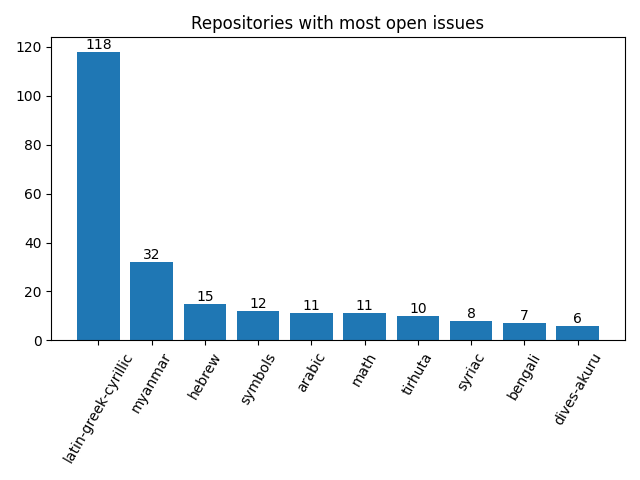
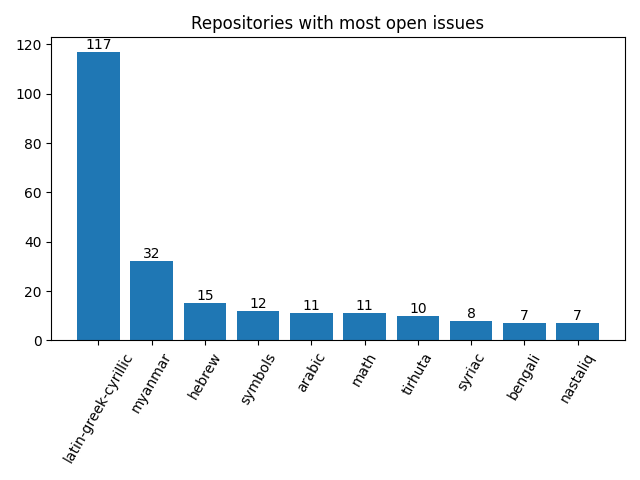
Apply automatic changes

diff --git a/docs/analytics.html b/docs/analytics.html
@@ -119,8 +119,8 @@ td .material-icons { display:inline-flex; vertical-align: top; font-size:1.1rem;
 						</tr>
 						<tr>
 							<td>Nov</td>
-							<td>11</td>
-							<td>4</td>
+							<td>14</td>
+							<td>7</td>
 						</tr>
 					</table>
 				</div>
@@ -140,7 +140,7 @@ td .material-icons { display:inline-flex; vertical-align: top; font-size:1.1rem;
 							<td>
 								<a href="http://github.com/notofonts/latin-greek-cyrillic/issues">latin-greek-cyrillic</a>
 							</td>
-							<td>118</td>
+							<td>117</td>
 						</tr>
 						<tr>
 							<td>
@@ -192,9 +192,9 @@ td .material-icons { display:inline-flex; vertical-align: top; font-size:1.1rem;
 						</tr>
 						<tr>
 							<td>
-								<a href="http://github.com/notofonts/dives-akuru/issues">dives-akuru</a>
+								<a href="http://github.com/notofonts/nastaliq/issues">nastaliq</a>
 							</td>
-							<td>6</td>
+							<td>7</td>
 						</tr>
 					</table>
 				</div>
@@ -211,13 +211,13 @@ td .material-icons { display:inline-flex; vertical-align: top; font-size:1.1rem;
 				<tr>
 					<td>1</td>
 					<td>
-						<a href="http://github.com/notofonts/chakma/issues">chakma</a>,  						<a href="http://github.com/notofonts/chorasmian/issues">chorasmian</a>,  						<a href="http://github.com/notofonts/dogra/issues">dogra</a>,  						<a href="http://github.com/notofonts/duployan/issues">duployan</a>,  						<a href="http://github.com/notofonts/elbasan/issues">elbasan</a>,  						<a href="http://github.com/notofonts/glagolitic/issues">glagolitic</a>,  						<a href="http://github.com/notofonts/gunjala-gondi/issues">gunjala-gondi</a>,  						<a href="http://github.com/notofonts/inscriptional-pahlavi/issues">inscriptional-pahlavi</a>,  						<a href="http://github.com/notofonts/kharoshthi/issues">kharoshthi</a>,  						<a href="http://github.com/notofonts/khitan-small-script/issues">khitan-small-script</a>,  						<a href="http://github.com/notofonts/khojki/issues">khojki</a>,  						<a href="http://github.com/notofonts/khudawadi/issues">khudawadi</a>,  						<a href="http://github.com/notofonts/lao/issues">lao</a>,  						<a href="http://github.com/notofonts/limbu/issues">limbu</a>,  						<a href="http://github.com/notofonts/masaram-gondi/issues">masaram-gondi</a>,  						<a href="http://github.com/notofonts/meetei-mayek/issues">meetei-mayek</a>,  						<a href="http://github.com/notofonts/mongolian/issues">mongolian</a>,  						<a href="http://github.com/notofonts/nag-mundari/issues">nag-mundari</a>,  						<a href="http://github.com/notofonts/nko/issues">nko</a>,  						<a href="http://github.com/notofonts/nushu/issues">nushu</a>,  						<a href="http://github.com/notofonts/old-italic/issues">old-italic</a>,  						<a href="http://github.com/notofonts/old-turkic/issues">old-turkic</a>,  						<a href="http://github.com/notofonts/oriya/issues">oriya</a>,  						<a href="http://github.com/notofonts/pau-cin-hau/issues">pau-cin-hau</a>,  						<a href="http://github.com/notofonts/phags-pa/issues">phags-pa</a>,  						<a href="http://github.com/notofonts/psalter-pahlavi/issues">psalter-pahlavi</a>,  						<a href="http://github.com/notofonts/rejang/issues">rejang</a>,  						<a href="http://github.com/notofonts/runic/issues">runic</a>,  						<a href="http://github.com/notofonts/saurashtra/issues">saurashtra</a>,  						<a href="http://github.com/notofonts/sogdian/issues">sogdian</a>,  						<a href="http://github.com/notofonts/sundanese/issues">sundanese</a>,  						<a href="http://github.com/notofonts/tai-tham/issues">tai-tham</a>,  						<a href="http://github.com/notofonts/takri/issues">takri</a>,  						<a href="http://github.com/notofonts/tangsa/issues">tangsa</a>,  						<a href="http://github.com/notofonts/tangut/issues">tangut</a>,  						<a href="http://github.com/notofonts/thaana/issues">thaana</a> 
+						<a href="http://github.com/notofonts/chakma/issues">chakma</a>,  						<a href="http://github.com/notofonts/chorasmian/issues">chorasmian</a>,  						<a href="http://github.com/notofonts/dogra/issues">dogra</a>,  						<a href="http://github.com/notofonts/duployan/issues">duployan</a>,  						<a href="http://github.com/notofonts/elbasan/issues">elbasan</a>,  						<a href="http://github.com/notofonts/glagolitic/issues">glagolitic</a>,  						<a href="http://github.com/notofonts/gunjala-gondi/issues">gunjala-gondi</a>,  						<a href="http://github.com/notofonts/inscriptional-pahlavi/issues">inscriptional-pahlavi</a>,  						<a href="http://github.com/notofonts/kharoshthi/issues">kharoshthi</a>,  						<a href="http://github.com/notofonts/khitan-small-script/issues">khitan-small-script</a>,  						<a href="http://github.com/notofonts/khojki/issues">khojki</a>,  						<a href="http://github.com/notofonts/khudawadi/issues">khudawadi</a>,  						<a href="http://github.com/notofonts/lao/issues">lao</a>,  						<a href="http://github.com/notofonts/limbu/issues">limbu</a>,  						<a href="http://github.com/notofonts/masaram-gondi/issues">masaram-gondi</a>,  						<a href="http://github.com/notofonts/meetei-mayek/issues">meetei-mayek</a>,  						<a href="http://github.com/notofonts/mongolian/issues">mongolian</a>,  						<a href="http://github.com/notofonts/nag-mundari/issues">nag-mundari</a>,  						<a href="http://github.com/notofonts/nko/issues">nko</a>,  						<a href="http://github.com/notofonts/nushu/issues">nushu</a>,  						<a href="http://github.com/notofonts/old-italic/issues">old-italic</a>,  						<a href="http://github.com/notofonts/old-turkic/issues">old-turkic</a>,  						<a href="http://github.com/notofonts/oriya/issues">oriya</a>,  						<a href="http://github.com/notofonts/pau-cin-hau/issues">pau-cin-hau</a>,  						<a href="http://github.com/notofonts/phags-pa/issues">phags-pa</a>,  						<a href="http://github.com/notofonts/psalter-pahlavi/issues">psalter-pahlavi</a>,  						<a href="http://github.com/notofonts/rejang/issues">rejang</a>,  						<a href="http://github.com/notofonts/runic/issues">runic</a>,  						<a href="http://github.com/notofonts/saurashtra/issues">saurashtra</a>,  						<a href="http://github.com/notofonts/sogdian/issues">sogdian</a>,  						<a href="http://github.com/notofonts/sundanese/issues">sundanese</a>,  						<a href="http://github.com/notofonts/tai-tham/issues">tai-tham</a>,  						<a href="http://github.com/notofonts/takri/issues">takri</a>,  						<a href="http://github.com/notofonts/tangsa/issues">tangsa</a>,  						<a href="http://github.com/notofonts/tangut/issues">tangut</a>,  						<a href="http://github.com/notofonts/thaana/issues">thaana</a>,  						<a href="http://github.com/notofonts/toto/issues">toto</a> 
 					</td>
 				</tr>
 				<tr>
 					<td>2</td>
 					<td>
-						<a href="http://github.com/notofonts/adlam/issues">adlam</a>,  						<a href="http://github.com/notofonts/armenian/issues">armenian</a>,  						<a href="http://github.com/notofonts/brahmi/issues">brahmi</a>,  						<a href="http://github.com/notofonts/coptic/issues">coptic</a>,  						<a href="http://github.com/notofonts/cuneiform/issues">cuneiform</a>,  						<a href="http://github.com/notofonts/georgian/issues">georgian</a>,  						<a href="http://github.com/notofonts/khmer/issues">khmer</a>,  						<a href="http://github.com/notofonts/mandaic/issues">mandaic</a>,  						<a href="http://github.com/notofonts/music/issues">music</a>,  						<a href="http://github.com/notofonts/old-hungarian-ui/issues">old-hungarian-ui</a>,  						<a href="http://github.com/notofonts/tagalog/issues">tagalog</a>,  						<a href="http://github.com/notofonts/tamil/issues">tamil</a>,  						<a href="http://github.com/notofonts/telugu/issues">telugu</a>,  						<a href="http://github.com/notofonts/toto/issues">toto</a> 
+						<a href="http://github.com/notofonts/adlam/issues">adlam</a>,  						<a href="http://github.com/notofonts/armenian/issues">armenian</a>,  						<a href="http://github.com/notofonts/brahmi/issues">brahmi</a>,  						<a href="http://github.com/notofonts/coptic/issues">coptic</a>,  						<a href="http://github.com/notofonts/cuneiform/issues">cuneiform</a>,  						<a href="http://github.com/notofonts/georgian/issues">georgian</a>,  						<a href="http://github.com/notofonts/khmer/issues">khmer</a>,  						<a href="http://github.com/notofonts/mandaic/issues">mandaic</a>,  						<a href="http://github.com/notofonts/music/issues">music</a>,  						<a href="http://github.com/notofonts/old-hungarian-ui/issues">old-hungarian-ui</a>,  						<a href="http://github.com/notofonts/tagalog/issues">tagalog</a>,  						<a href="http://github.com/notofonts/tamil/issues">tamil</a>,  						<a href="http://github.com/notofonts/telugu/issues">telugu</a> 
 					</td>
 				</tr>
 				<tr>
@@ -235,19 +235,19 @@ td .material-icons { display:inline-flex; vertical-align: top; font-size:1.1rem;
 				<tr>
 					<td>5</td>
 					<td>
-						<a href="http://github.com/notofonts/ahom/issues">ahom</a>,  						<a href="http://github.com/notofonts/bhaiksuki/issues">bhaiksuki</a>,  						<a href="http://github.com/notofonts/gurmukhi/issues">gurmukhi</a>,  						<a href="http://github.com/notofonts/kawi/issues">kawi</a>,  						<a href="http://github.com/notofonts/nandinagari/issues">nandinagari</a>,  						<a href="http://github.com/notofonts/syloti-nagri/issues">syloti-nagri</a>,  						<a href="http://github.com/notofonts/tibetan/issues">tibetan</a> 
+						<a href="http://github.com/notofonts/bhaiksuki/issues">bhaiksuki</a>,  						<a href="http://github.com/notofonts/gurmukhi/issues">gurmukhi</a>,  						<a href="http://github.com/notofonts/kawi/issues">kawi</a>,  						<a href="http://github.com/notofonts/nandinagari/issues">nandinagari</a>,  						<a href="http://github.com/notofonts/syloti-nagri/issues">syloti-nagri</a>,  						<a href="http://github.com/notofonts/tibetan/issues">tibetan</a> 
 					</td>
 				</tr>
 				<tr>
 					<td>6</td>
 					<td>
-						<a href="http://github.com/notofonts/dives-akuru/issues">dives-akuru</a>,  						<a href="http://github.com/notofonts/egyptian-hieroglyphs/issues">egyptian-hieroglyphs</a>,  						<a href="http://github.com/notofonts/gujarati/issues">gujarati</a>,  						<a href="http://github.com/notofonts/kannada/issues">kannada</a>,  						<a href="http://github.com/notofonts/malayalam/issues">malayalam</a>,  						<a href="http://github.com/notofonts/modi/issues">modi</a>,  						<a href="http://github.com/notofonts/nastaliq/issues">nastaliq</a>,  						<a href="http://github.com/notofonts/old-hungarian/issues">old-hungarian</a> 
+						<a href="http://github.com/notofonts/ahom/issues">ahom</a>,  						<a href="http://github.com/notofonts/dives-akuru/issues">dives-akuru</a>,  						<a href="http://github.com/notofonts/egyptian-hieroglyphs/issues">egyptian-hieroglyphs</a>,  						<a href="http://github.com/notofonts/gujarati/issues">gujarati</a>,  						<a href="http://github.com/notofonts/kannada/issues">kannada</a>,  						<a href="http://github.com/notofonts/malayalam/issues">malayalam</a>,  						<a href="http://github.com/notofonts/modi/issues">modi</a>,  						<a href="http://github.com/notofonts/old-hungarian/issues">old-hungarian</a> 
 					</td>
 				</tr>
 				<tr>
 					<td>7</td>
 					<td>
-						<a href="http://github.com/notofonts/bengali/issues">bengali</a> 
+						<a href="http://github.com/notofonts/bengali/issues">bengali</a>,  						<a href="http://github.com/notofonts/nastaliq/issues">nastaliq</a> 
 					</td>
 				</tr>
 				<tr>
@@ -274,7 +274,7 @@ td .material-icons { display:inline-flex; vertical-align: top; font-size:1.1rem;
 						<tr>
 							<td>1</td>
 							<td>
-									<a href="http://github.com/notofonts/latin-greek-cyrillic/issues">latin-greek-cyrillic</a>: 118, 
+									<a href="http://github.com/notofonts/latin-greek-cyrillic/issues">latin-greek-cyrillic</a>: 117, 
 
 									<a href="http://github.com/notofonts/hebrew/issues">hebrew</a>: 15, 
 
@@ -282,13 +282,13 @@ td .material-icons { display:inline-flex; vertical-align: top; font-size:1.1rem;
 
 									<a href="http://github.com/notofonts/bengali/issues">bengali</a>: 7, 
 
+									<a href="http://github.com/notofonts/nastaliq/issues">nastaliq</a>: 7, 
+
 									<a href="http://github.com/notofonts/gujarati/issues">gujarati</a>: 6, 
 
 									<a href="http://github.com/notofonts/kannada/issues">kannada</a>: 6, 
 
 									<a href="http://github.com/notofonts/malayalam/issues">malayalam</a>: 6, 
-
-									<a href="http://github.com/notofonts/nastaliq/issues">nastaliq</a>: 6, 
 
 									<a href="http://github.com/notofonts/gurmukhi/issues">gurmukhi</a>: 5, 
 
@@ -330,9 +330,9 @@ td .material-icons { display:inline-flex; vertical-align: top; font-size:1.1rem;
 
 									<a href="http://github.com/notofonts/syriac/issues">syriac</a>: 8, 
 
-									<a href="http://github.com/notofonts/modi/issues">modi</a>: 6, 
+									<a href="http://github.com/notofonts/ahom/issues">ahom</a>: 6, 
 
-									<a href="http://github.com/notofonts/ahom/issues">ahom</a>: 5, 
+									<a href="http://github.com/notofonts/modi/issues">modi</a>: 6, 
 
 									<a href="http://github.com/notofonts/syloti-nagri/issues">syloti-nagri</a>: 5, 
 
@@ -355,8 +355,6 @@ td .material-icons { display:inline-flex; vertical-align: top; font-size:1.1rem;
 									<a href="http://github.com/notofonts/music/issues">music</a>: 2, 
 
 									<a href="http://github.com/notofonts/tagalog/issues">tagalog</a>: 2, 
-
-									<a href="http://github.com/notofonts/toto/issues">toto</a>: 2, 
 
 									<a href="http://github.com/notofonts/chakma/issues">chakma</a>: 1, 
 
@@ -392,7 +390,9 @@ td .material-icons { display:inline-flex; vertical-align: top; font-size:1.1rem;
 
 									<a href="http://github.com/notofonts/tangsa/issues">tangsa</a>: 1, 
 
-									<a href="http://github.com/notofonts/thaana/issues">thaana</a>: 1
+									<a href="http://github.com/notofonts/thaana/issues">thaana</a>: 1, 
+
+									<a href="http://github.com/notofonts/toto/issues">toto</a>: 1
 							</td>
 						</tr>
 						<tr>
@@ -683,6 +683,24 @@ td .material-icons { display:inline-flex; vertical-align: top; font-size:1.1rem;
 								</button>
 								<ul class="releases collapse">
 									<li><a href="https://github.com/notofonts/nandinagari/releases/tag/NotoSansNandinagari-v1.003">NotoSansNandinagari-v1.003</a></li>
+								</ul>
+							</td>
+						</tr>
+
+						<tr>
+							<td>Nov</td>
+							<td id="month-Nov">
+								<button
+									class="btn btn-link collapsed"
+									data-toggle="collapse"
+									data-target="#month-Nov .releases"
+								>
+									<span class="material-icons"></span>
+									2 releases
+								</button>
+								<ul class="releases collapse">
+									<li><a href="https://github.com/notofonts/latin-greek-cyrillic/releases/tag/NotoSerif-v2.015">NotoSerif-v2.015</a></li>
+									<li><a href="https://github.com/notofonts/latin-greek-cyrillic/releases/tag/NotoSans-v2.015">NotoSans-v2.015</a></li>
 								</ul>
 							</td>
 						</tr>
